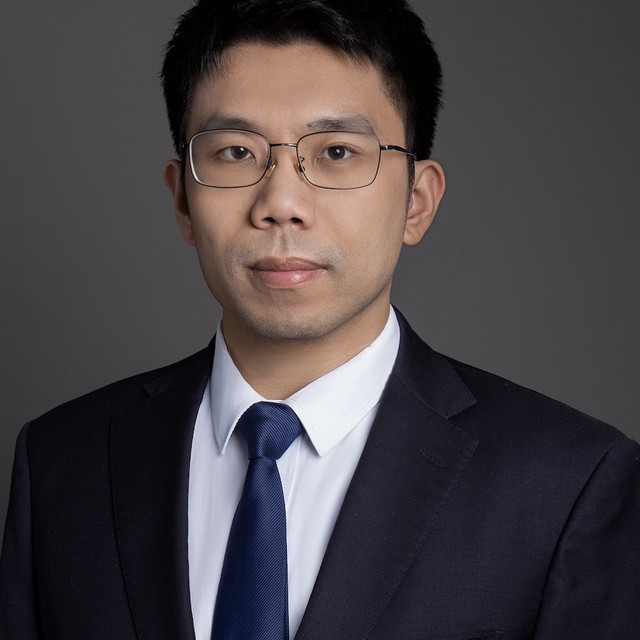
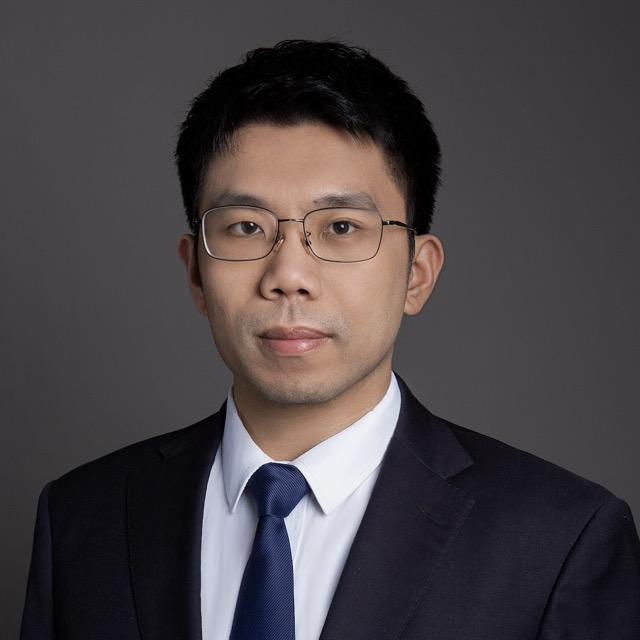
Recrop profile photo with more headroom above the hair

diff --git a/index.html b/index.html
@@ -7,8 +7,8 @@
 <meta name="description" content="Xiaoyan Li (李笑言): machine learning researcher working at the intersection of computational neuroscience, large language models, and AI for biomedicine. AI Scientist at Qide Medical Technology; previously postdoc at Tsinghua University; dual Ph.D. from Michigan State University.">
 <meta property="og:title" content="Xiaoyan Li 李笑言">
 <meta property="og:description" content="Computational neuroscience × machine learning, LLM reasoning, and AI for biomedicine.">
-<meta property="og:image" content="https://lixiaoyan629.com/images/profile.jpg">
-<link rel="icon" href="./images/profile.jpg">
+<meta property="og:image" content="https://lixiaoyan629.co./images/profile.jpg?v=2">
+<link rel="icon" href="./images/profile.jpg?v=2">
 <link rel="stylesheet" href="./site.css">
 </head>
 <body>
@@ -39,7 +39,7 @@
         <a href="https://www.linkedin.com/in/xiaoyan-li/">LinkedIn</a>
       </div>
     </div>
-    <img class="photo" src="./images/profile.jpg" alt="Portrait of Xiaoyan Li">
+    <img class="photo" src="./images/profile.jpg?v=2" alt="Portrait of Xiaoyan Li">
   </section>
 
   <h2 class="sec" id="education">Education</h2>
